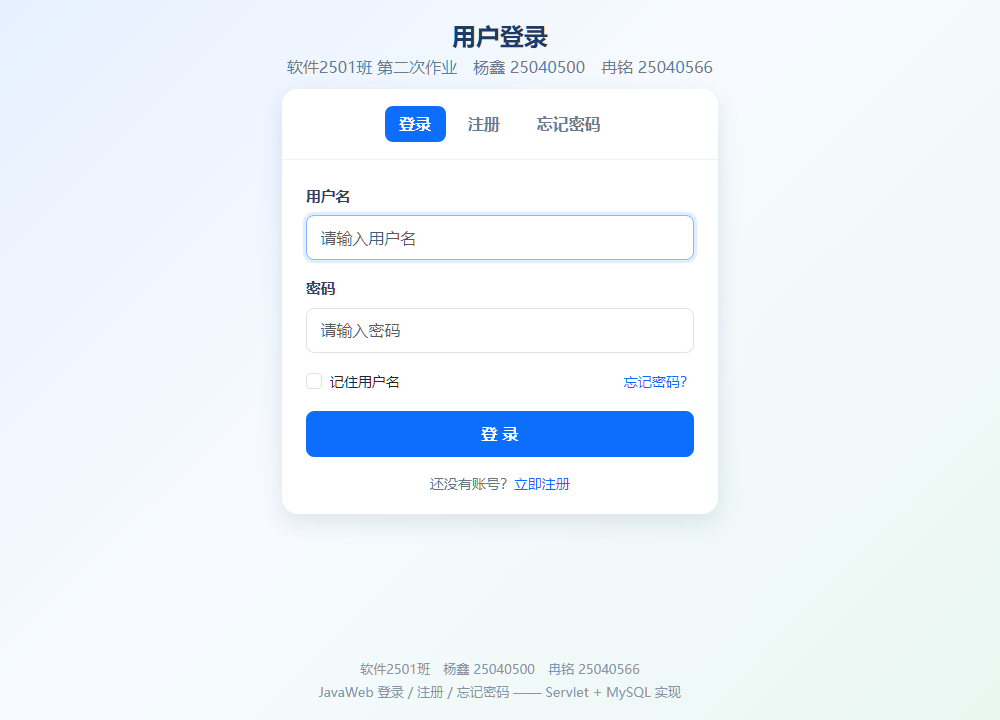
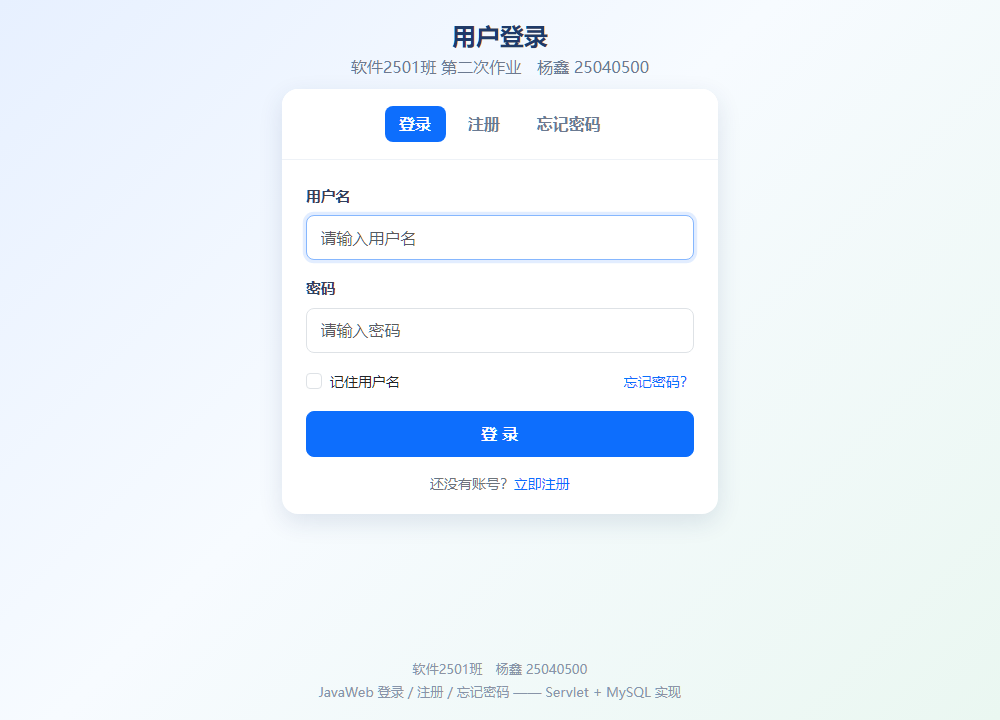
改为个人作业署名，并补充数据库运行证明截图
- 页面署名与 README、交付说明统一为本人（杨鑫 25040500）
- 新增 数据库证明/ 4 张截图（真实 SQL 执行结果）
- 重新采集 8 张运行截图（截图内不再出现其他姓名）

Changed region(s): [[0.279, 0.0611, 0.713, 0.1222], [0.341, 0.9167, 0.651, 0.9472]]

diff --git a/README.md b/README.md
@@ -2,12 +2,11 @@
 
 > **题目**：① 完成登录页面、注册页面、忘记密码三个前端页面；② 完成处理登录页面、注册页面、忘记密码三个页面对应的 Servlet；③ 项目代码托管使用 git；④ 作业提交 git 仓库即可。
 >
-> **小组成员**：杨鑫（25040500）、冉铭（25040566）
+> **个人作业**
 
 | 项目 | 内容 |
 | --- | --- |
 | 姓名 / 学号 | 杨鑫 / 25040500　　（GitHub：[@nsdd18](https://github.com/nsdd18)） |
-| 姓名 / 学号 | 冉铭 / 25040566　　（GitHub：[@rm632](https://github.com/rm632)） |
 | 班级 | 软件2501班 |
 | 开发工具 | IntelliJ IDEA 2025.3 (Ultimate) |
 | 构建工具 | Maven 3.9.9 |
@@ -26,18 +25,9 @@
 git clone https://github.com/nsdd18/javaweb-homework2-userauth.git
 ```
 
-本地项目目录：`JavaWeb-Homework2-杨鑫-冉铭-25040500`
+本地项目目录：`JavaWeb-Homework2-杨鑫-25040500`
 GitHub 仓库名：`javaweb-homework2-userauth`（仓库名用英文，避免中文路径在部分工具下出问题；文件夹名仍按要求保留中文）
 
-**小组成员与分工**：
-
-| 成员 | 学号 | GitHub | 在本仓库中的贡献 |
-| --- | --- | --- | --- |
-| 杨鑫 | 25040500 | [@nsdd18](https://github.com/nsdd18) | 提交作者，负责项目搭建、Servlet 与数据库层、页面与测试 |
-| 冉铭 | 25040566 | [@rm632](https://github.com/rm632) | 共同作者（Co-authored-by），参与页面实现与联调；已加入为仓库协作者 |
-
-> 仓库中每个提交都带有共同作者署名 `Co-authored-by: 冉铭 <342280719+rm632@users.noreply.github.com>`，
-> GitHub 会据此把冉铭记为参与者。
 
 
 ---
